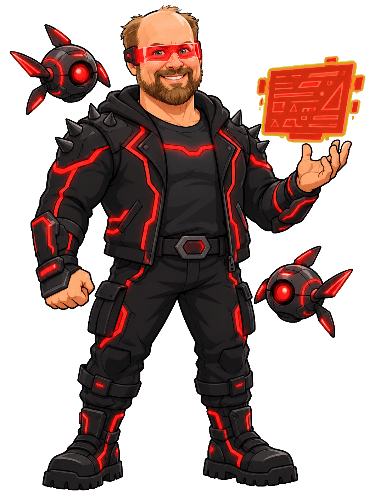
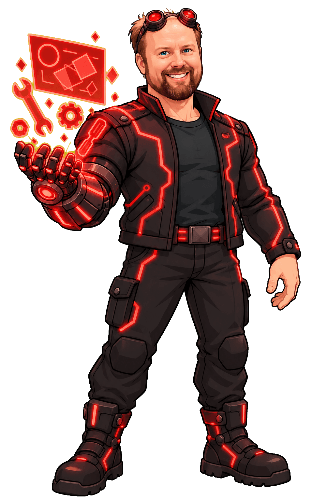
Cyber Dada Matt as a gauntlet engineer (item 043): Matt's candidate 10 (brief 041_cyber_gauntlet_engineer) and its brief as his look; the evil form drawn to match (candidate 5); his drone and laser moves become hologram tools, a hologram grid, a gauntlet shield and blast; Matt's CHEST pick 3

diff --git a/content/battle/roster.ts b/content/battle/roster.ts
@@ -1356,35 +1356,35 @@ export const ROSTER: CharacterSpec[] = [
     id: 'dada_matt_cyber',
     person: 'dada_matt',
     form: 'cyber',
-    description: 'A programmer dad turned cyberdecker: a neon visor, glowing code at his fingertips, a swarm of helper drones and hacking tricks.',
+    description: 'A programmer dad turned cyber engineer (item 043): a big glowing power gauntlet that throws hologram tools, a hologram shield and goggles.',
     arena: 'factory',
     good: {
-      displayName: 'Dada Matt', trail: { tint: [0x3ae0ff, 0xff4ad8], shape: 'square' }, look: `${MATT_FACE}, as a friendly cyberpunk hacker: a glowing cyan neon visor over his eyes, a black hooded jacket with glowing magenta circuit lines, fingerless gloves, a floating keyboard of glowing cyan code in front of him and a little round helper drone at his shoulder`,
+      displayName: 'Dada Matt', trail: { tint: [0x3ae0ff, 0xff4ad8], shape: 'square' }, look: `${MATT_LIFTER}, as a friendly, fun cyber engineer for a children's game: one big chunky glowing cyan power gauntlet on his right hand and forearm, projecting floating hologram tools above it (a glowing wrench, a little round shield and two tiny screens), round cyber goggles with cyan lenses pushed up on his forehead, and a dark navy work jacket with glowing magenta circuit lines. Kid-friendly and playful, not edgy. A clear, simple silhouette that still reads at small sprite size. No green anywhere.`,
       palette: [0x1a1a3a, 0x3ae0ff], glyph: '💻', style: 'hover', speed: 180, size: 1.2, hp: 120,
       abilities: [
-        ab('drone_swarm', 'Drone Swarm', 'summon', 12, 0x3ae0ff, 2, { minion: 'drone', count: 2, word: 'zip', words: ['jet'] }),
-        ab('laser_net', 'Laser Net', 'grid', 8, 0xff4ad8, 2, { duration: 2, word: 'zap', words: ['net'] }),
-        ab('firewall', 'Firewall Shield', 'shield', 10, 0x3ae0ff, 1, { duration: 4, word: 'fix', words: ['top'] }),
-        ab('code_bolt', 'Code Bolt', 'bolt', 2.4, 0x3ae0ff, 1, { count: 4, glyph: '💾', homing: true, word: 'run', words: ['pop'] }),
+        ab('hologram_tools', 'Hologram Tools', 'bolt', 12, 0x3ae0ff, 2, { count: 3, glyph: '🔧', homing: true, word: 'zip', words: ['jet'] }),
+        ab('hologram_grid', 'Hologram Grid', 'grid', 8, 0xff4ad8, 2, { duration: 2, word: 'zap', words: ['net'] }),
+        ab('gauntlet_shield', 'Gauntlet Shield', 'shield', 10, 0x3ae0ff, 1, { duration: 4, word: 'fix', words: ['top'] }),
+        ab('gauntlet_blast', 'Gauntlet Blast', 'bolt', 2.4, 0x3ae0ff, 1, { count: 4, glyph: '🔩', homing: true, word: 'run', words: ['pop'] }),
       ],
       ultimate: ult('data_storm', 'Data Storm', 'rain',0x3ae0ff, 3, { count: 28, glyph: '💾', color2: 0xff4ad8 }),
       taunts: [
         { key: 'hacking', text: 'Hacking in!' },
         { key: 'beep', text: 'Beep boop, got you!' },
-        { key: 'drones', text: 'Drones, go!' },
+        { key: 'tools', text: 'Tools, go!' },
         { key: 'upload', text: 'Upload complete!' },
         { key: 'access', text: 'Access granted!' },
         { key: 'code', text: 'Code mode on!' },
       ],
     },
     evil: {
-      displayName: 'Evil Dada Matt', trail: { tint: [0xff2a4a, 0x1a1a2a], shape: 'square' }, look: `${MATT_FACE}, with a sly glitchy grin, as a villain hacker: a glowing red neon visor, a black spiky hooded jacket with red circuit lines, a floating red screen of jumbled code and two little red-eyed drones`,
+      displayName: 'Evil Dada Matt', trail: { tint: [0xff2a4a, 0x1a1a2a], shape: 'square' }, look: `${MATT_LIFTER}, with a sly glitchy grin, as a villain cyber engineer for a children's game: the same build and the same big chunky power gauntlet on his right hand and forearm, now glowing red, projecting floating red hologram tools and a jumbled red screen above it, round cyber goggles with red lenses pushed up on his forehead, and a black work jacket with glowing red circuit lines. Cheeky, not scary. A clear, simple silhouette that still reads at small sprite size. No green anywhere.`,
       palette: [0x1a1a2a, 0xff2a4a], glyph: '🖥', style: 'blink', speed: 170, size: 1.3, hp: 160,
       abilities: [
         ab('virus_blast', 'Virus Blast', 'bolt', 2.6, 0xff2a4a, 2, { count: 3, glyph: '👾', status: 'stun', duration: 1.5 }),
         ab('glitch_jump', 'Glitch Jump', 'teleport', 6, 0xff2a4a, 2),
-        ab('red_lasers', 'Red Laser Grid', 'grid', 8, 0xff2a4a, 3, { duration: 2 }),
-        ab('evil_drones', 'Evil Drones', 'summon', 12, 0xff2a4a, 2, { minion: 'drone', count: 3 }),
+        ab('red_grid', 'Red Hologram Grid', 'grid', 8, 0xff2a4a, 3, { duration: 2 }),
+        ab('glitch_tools', 'Glitch Tools', 'bolt', 12, 0xff2a4a, 2, { count: 4, glyph: '🔧', homing: true }),
       ],
       ultimate: ult('system_crash', 'System Crash', 'wave',0xff2a4a, 3, { color2: 0x1a1a2a }),
       taunts: [
@@ -1403,7 +1403,7 @@ export const ROSTER: CharacterSpec[] = [
         { key: 'friendly', text: 'Beep, sorry! System is friendly now.' },
       ],
       ending: [
-        { key: 'drone', text: 'Want to fly my drone?' },
+        { key: 'gauntlet', text: 'Want to try my power glove?' },
         { key: 'game', text: 'Let us play a video game together!' },
         { key: 'party', text: 'Party mode, switched on!' },
       ],

diff --git a/content/house/endings.ts b/content/house/endings.ts
@@ -92,7 +92,7 @@ export const ENDINGS: EndingSpec[] = [
     open: { text: 'Picnic time! Grab a sandwich!', say: 'Picnic time, grab a sandwich!' },
     cheer: { text: 'Yay! Come and sit on the blanket!', say: 'Yay, come and sit on the blanket!' },
     close: { text: 'Sharing is the best!' },
-    fit: { form: 'dada_matt_cyber', text: 'My drone brought the sandwiches!' },
+    fit: { form: 'dada_matt_cyber', text: 'My power glove made the sandwiches!' },
     villains: ['rilla', 'dada_matt_cyber'],
   },
   {
